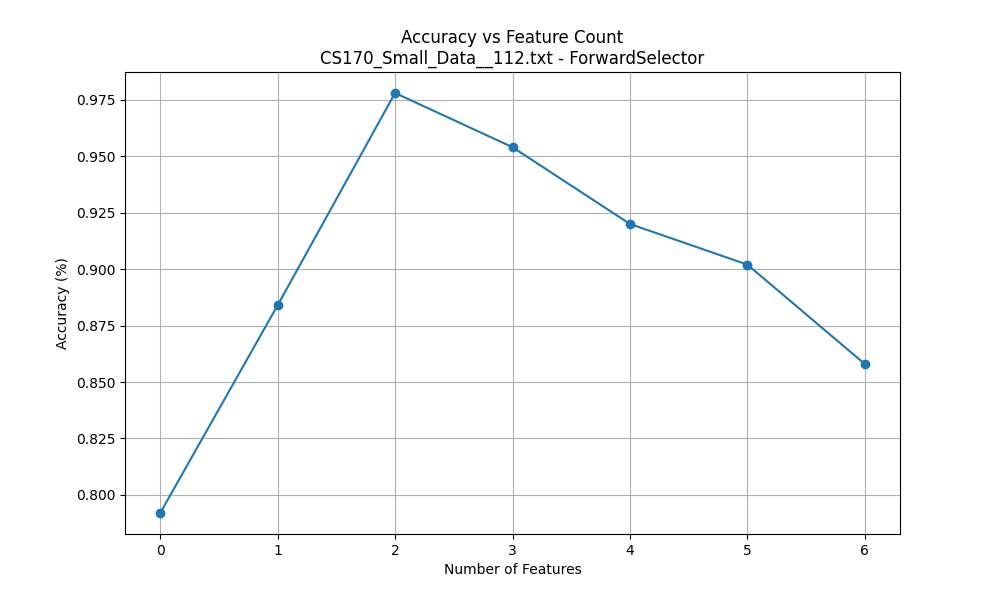
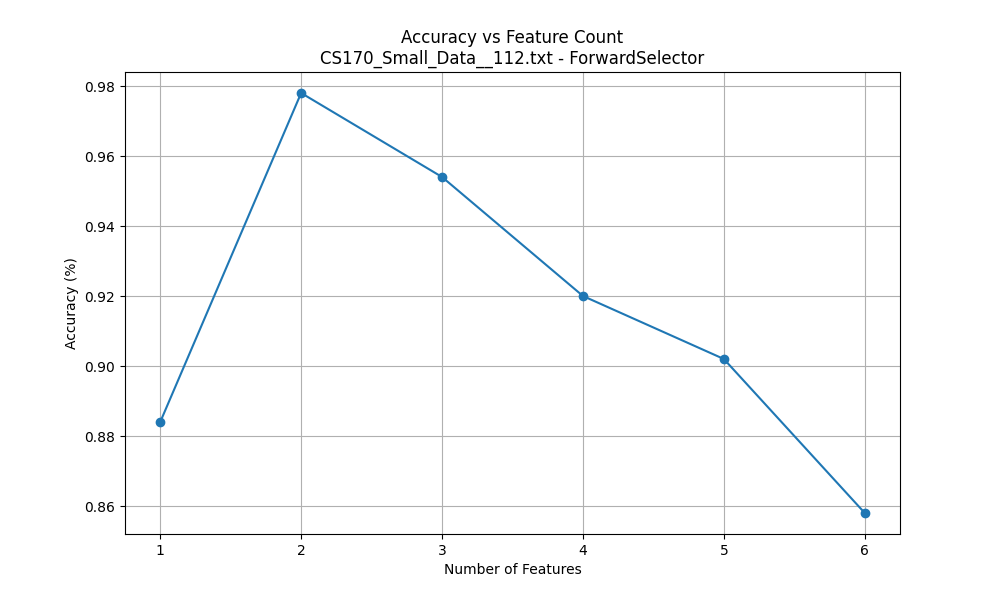
feat: update not handling of feature 0

diff --git a/src/visualize_results.py b/src/visualize_results.py
@@ -35,15 +35,27 @@ def plot_accuracy_vs_features(metrics, output_dir="plots"):
         accuracies = []
         for entry in metric["accuracy_history"]:
             if isinstance(entry, dict):  # New format
-                feature_counts.append(entry["feature_count"])
-                accuracies.append(entry["accuracy"])
+                feature_count = entry["feature_count"]
+                # Skip the empty feature set (0 features)
+                if feature_count > 0:
+                    feature_counts.append(feature_count)
+                    accuracies.append(entry["accuracy"])
             else:  # Old format
-                feature_counts.append(len(entry[0]))
-                accuracies.append(entry[1])
+                feature_count = len(entry[0])
+                # Skip the empty feature set (0 features)
+                if feature_count > 0:
+                    feature_counts.append(feature_count)
+                    accuracies.append(entry[1])
 
         plt.plot(feature_counts, accuracies, marker="o", label="Feature Selection Path")
+
+        # Get algorithm name (handle both keys)
+        algorithm_name = metric.get(
+            "algorithm", metric.get("algorithm_name", "Unknown")
+        )
+
         plt.title(
-            f'Accuracy vs Feature Count\n{metric["dataset_name"]} - {metric["algorithm"]}'
+            f'Accuracy vs Feature Count\n{metric["dataset_name"]} - {algorithm_name}'
         )
         plt.xlabel("Number of Features")
         plt.ylabel("Accuracy (%)")
@@ -52,7 +64,7 @@ def plot_accuracy_vs_features(metrics, output_dir="plots"):
         plt.savefig(
             os.path.join(
                 output_dir,
-                f'{metric["dataset_name"]}_{metric["algorithm"]}_accuracy.png',
+                f'{metric["dataset_name"]}_{algorithm_name}_accuracy.png',
             )
         )
         plt.close()
@@ -92,10 +104,12 @@ def plot_feature_comparison(metrics, output_dir="plots"):
         if "accuracy_history" in metric:
             for entry in metric["accuracy_history"]:
                 if isinstance(entry, dict):  # New format
-                    feature_count = entry["feature_count"]
+                    # Adjust feature count to start from 1
+                    feature_count = max(1, entry["feature_count"])
                     accuracy = entry["accuracy"]
                 else:  # Old format (list of features and accuracy)
-                    feature_count = len(entry[0])
+                    # Adjust feature count to start from 1
+                    feature_count = max(1, len(entry[0]))
                     accuracy = entry[1]
 
                 features_data["Feature"].append(f"F{feature_count}")
@@ -105,7 +119,8 @@ def plot_feature_comparison(metrics, output_dir="plots"):
         # Add weak features if available
         if "weak_features" in metric:
             for feature, accuracy in metric["weak_features"]:
-                features_data["Feature"].append(f"F{feature+1}")
+                # Adjust feature index to start from 1
+                features_data["Feature"].append(f"F{feature + 1}")
                 features_data["Accuracy"].append(accuracy * 100)
                 features_data["Category"].append("Weak Features")
 
@@ -127,9 +142,12 @@ def plot_feature_comparison(metrics, output_dir="plots"):
             palette=["blue", "orange"],
         )
 
-        plt.title(
-            f'Feature Comparison\n{metric["dataset_name"]} - {metric["algorithm"]}'
+        # Get algorithm name (handle both keys)
+        algorithm_name = metric.get(
+            "algorithm", metric.get("algorithm_name", "Unknown")
         )
+
+        plt.title(f'Feature Comparison\n{metric["dataset_name"]} - {algorithm_name}')
         plt.xlabel("Features")
         plt.ylabel("Accuracy (%)")
 
@@ -149,7 +167,7 @@ def plot_feature_comparison(metrics, output_dir="plots"):
         plt.savefig(
             os.path.join(
                 output_dir,
-                f'{metric["dataset_name"]}_{metric["algorithm"]}_feature_comparison.png',
+                f'{metric["dataset_name"]}_{algorithm_name}_feature_comparison.png',
             )
         )
         plt.close()
